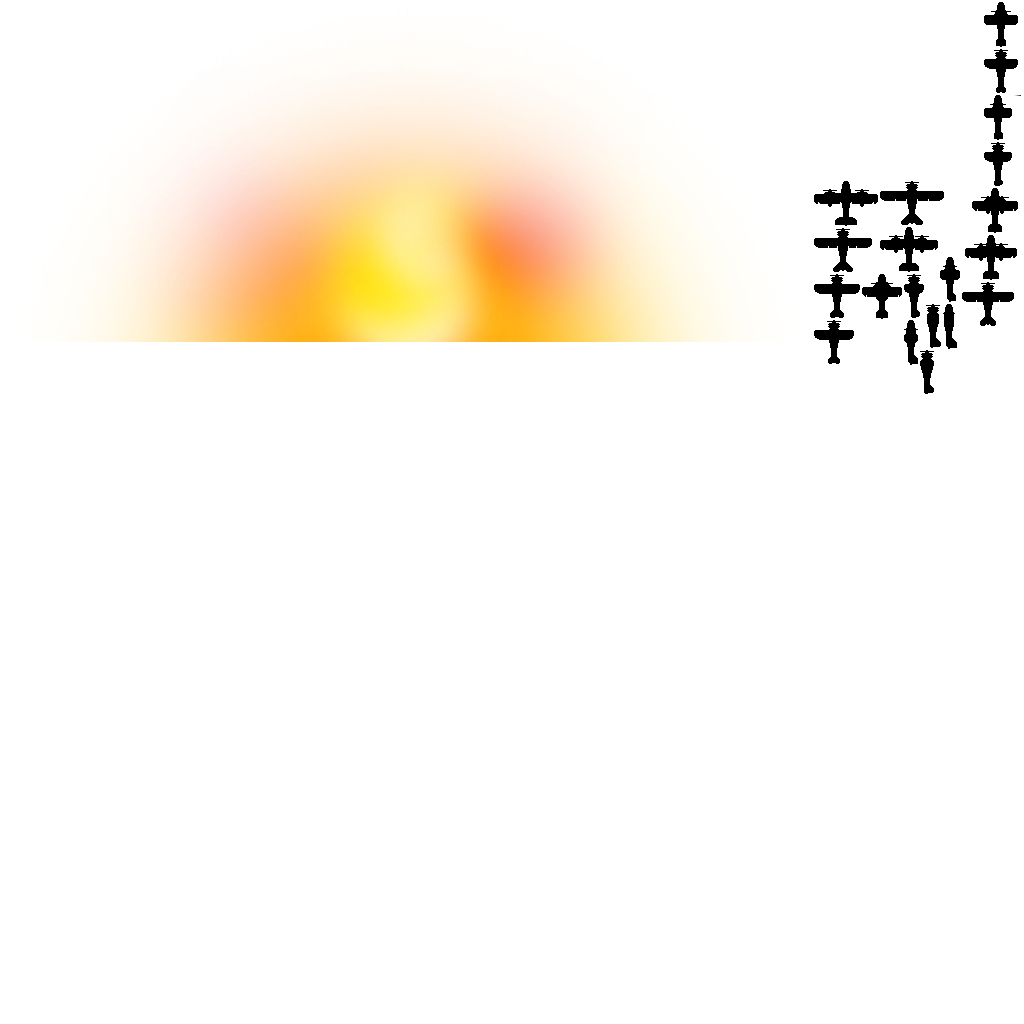
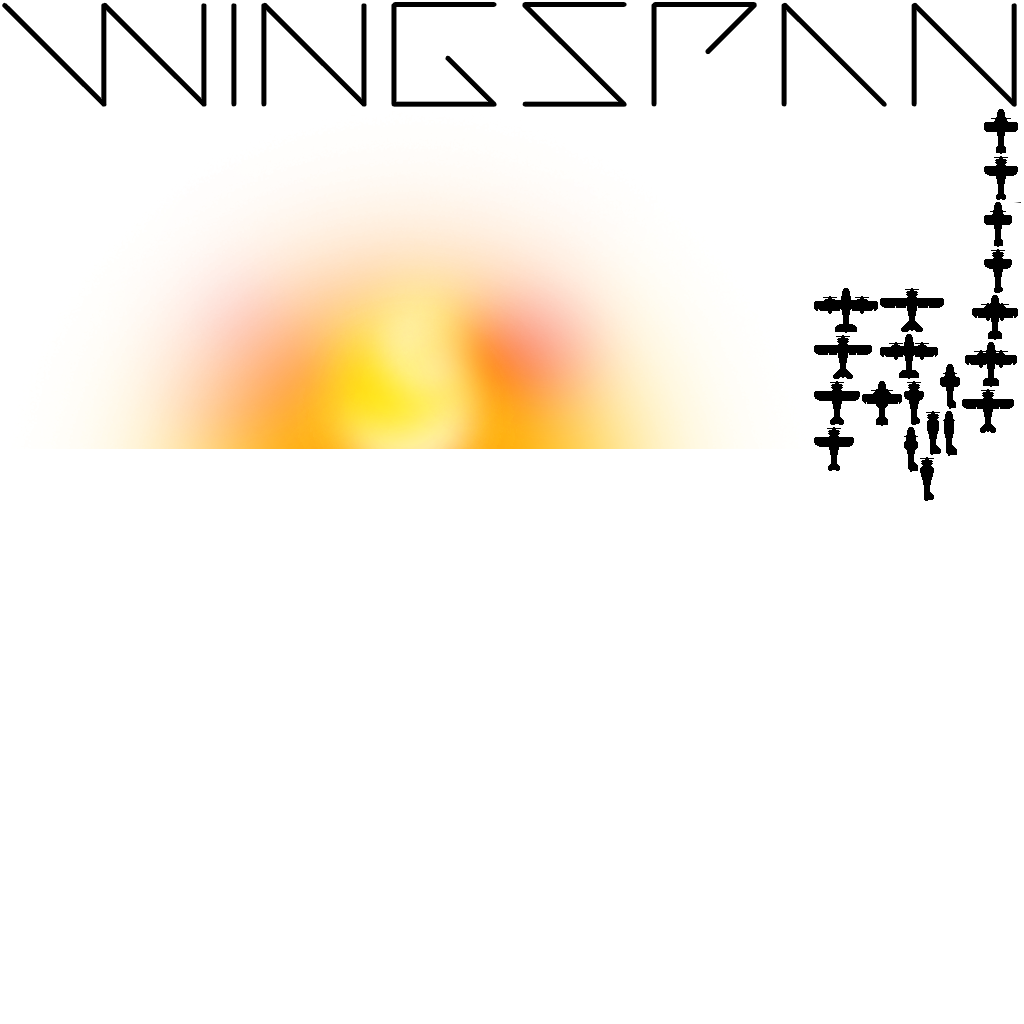
Label tweaks

diff --git a/src/ts/objects/PlaneLabel.class.ts b/src/ts/objects/PlaneLabel.class.ts
@@ -25,8 +25,9 @@ class PlaneLabel extends Phaser.Group {
 
         this.plane = plane;
 
-        this.label = new Phaser.BitmapText(this.game, 0, 0, "standard-07_55", `PLANE ${this.plane.idx + 1}`, 8);
-        this.label.tint = plane.tintHex;
+        this.label = new Phaser.BitmapText(this.game, 0, 0, "futura-9", `PLANE ${this.plane.idx + 1}`, 9);
+        this.label.tint = 0x010101;
+        this.label.alpha = 0.5;
 
         this.add(this.label);
     }
@@ -40,6 +41,15 @@ class PlaneLabel extends Phaser.Group {
 
             x = Math.round(this.plane.position.x - this.label.width / 2);
             y = Math.round(this.plane.position.y) - 35;
+
+            if (x < this.game.camera.x + 5 || x > this.game.camera.x + this.game.canvas.width - 5 - this.label.width || y < 22) {
+                this.label.tint = this.plane.tintHex;
+                this.label.alpha = 1;
+            }
+            else {
+                this.label.tint = 0x010101;
+                this.label.alpha = 0.5;
+            }
 
             x = Phaser.Math.clamp(x, this.game.camera.x + 5, this.game.camera.x + this.game.canvas.width - 5 - this.label.width);
             y = Phaser.Math.clampBottom(y, 22);

diff --git a/src/ts/objects/GUI.class.ts b/src/ts/objects/GUI.class.ts
@@ -13,10 +13,22 @@ class GUI extends Phaser.Group {
 
     private planeOffscreenMarkerList: PlaneOffscreenMarker[] = [];
     private planeLabelList: PlaneLabel[] = [];
+    private logo: Phaser.Image;
+    private label: Phaser.BitmapText;
 
 
     constructor(game: Phaser.Game) {
         super(game, game.world, "gui");
+
+        this.logo = new Phaser.Image(this.game, this.game.world.centerX, this.game.world.centerY - 20, "game", "gui/logo-1015.png");
+        this.logo.anchor.set(0.5, 0.5);
+
+        this.label = new Phaser.BitmapText(this.game, this.game.world.centerX, this.game.world.centerY - 150, "futura-16", "CREEPTOWN GAMES PRESENTS", 16);
+        this.label.anchor.set(0.5, 0.5);
+        this.label.tint = 0x010101;
+        this.label.alpha = 0.5;
+
+        this.addMultiple([this.logo, this.label]);
     }
 
 

diff --git a/src/ts/state/PreloadState.class.ts b/src/ts/state/PreloadState.class.ts
@@ -27,6 +27,7 @@ class PreloadState extends Phaser.State {
         this.load.audio("music-parapet", ["assets/audio/music-parapet.mp3", "assets/audio/music-parapet.ogg"]);
         this.load.image("forestBackground", "assets/forest-bg-1920x1080.jpg");
         this.load.bitmapFont("standard-07_55", "assets/fonts/standard-07_55.png", "assets/fonts/standard-07_55.xml");
+        this.load.bitmapFont("futura-9", "assets/fonts/futura-9.png", "assets/fonts/futura-9.xml");
         this.load.bitmapFont("futura-16", "assets/fonts/futura-16.png", "assets/fonts/futura-16.xml");
     }
 
